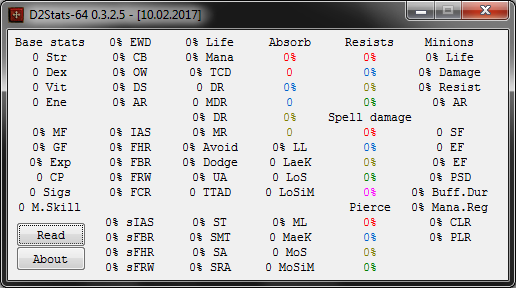
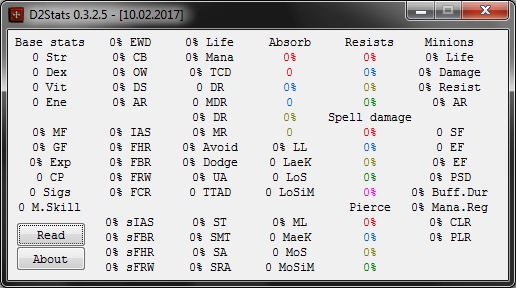
Fixed readme screenshot url so it's relative. Uploaded a non 64-bit screenshot of the program.

Changed region(s): [[0.124, 0.0, 0.4341, 0.0938]]

diff --git a/README.md b/README.md
@@ -2,6 +2,6 @@
 
 Reads Diablo II stats from the game.
 
-![D2Stats window screenshot](https://raw.githubusercontent.com/Kyromyr/D2Stats/master/Assets/screenshot.png "D2Stats window screenshot")
+![D2Stats window screenshot](Assets/screenshot.png "D2Stats window screenshot")
 ____
-*Run D2Stats as an administrator!*
+**Run D2Stats as an administrator!**
